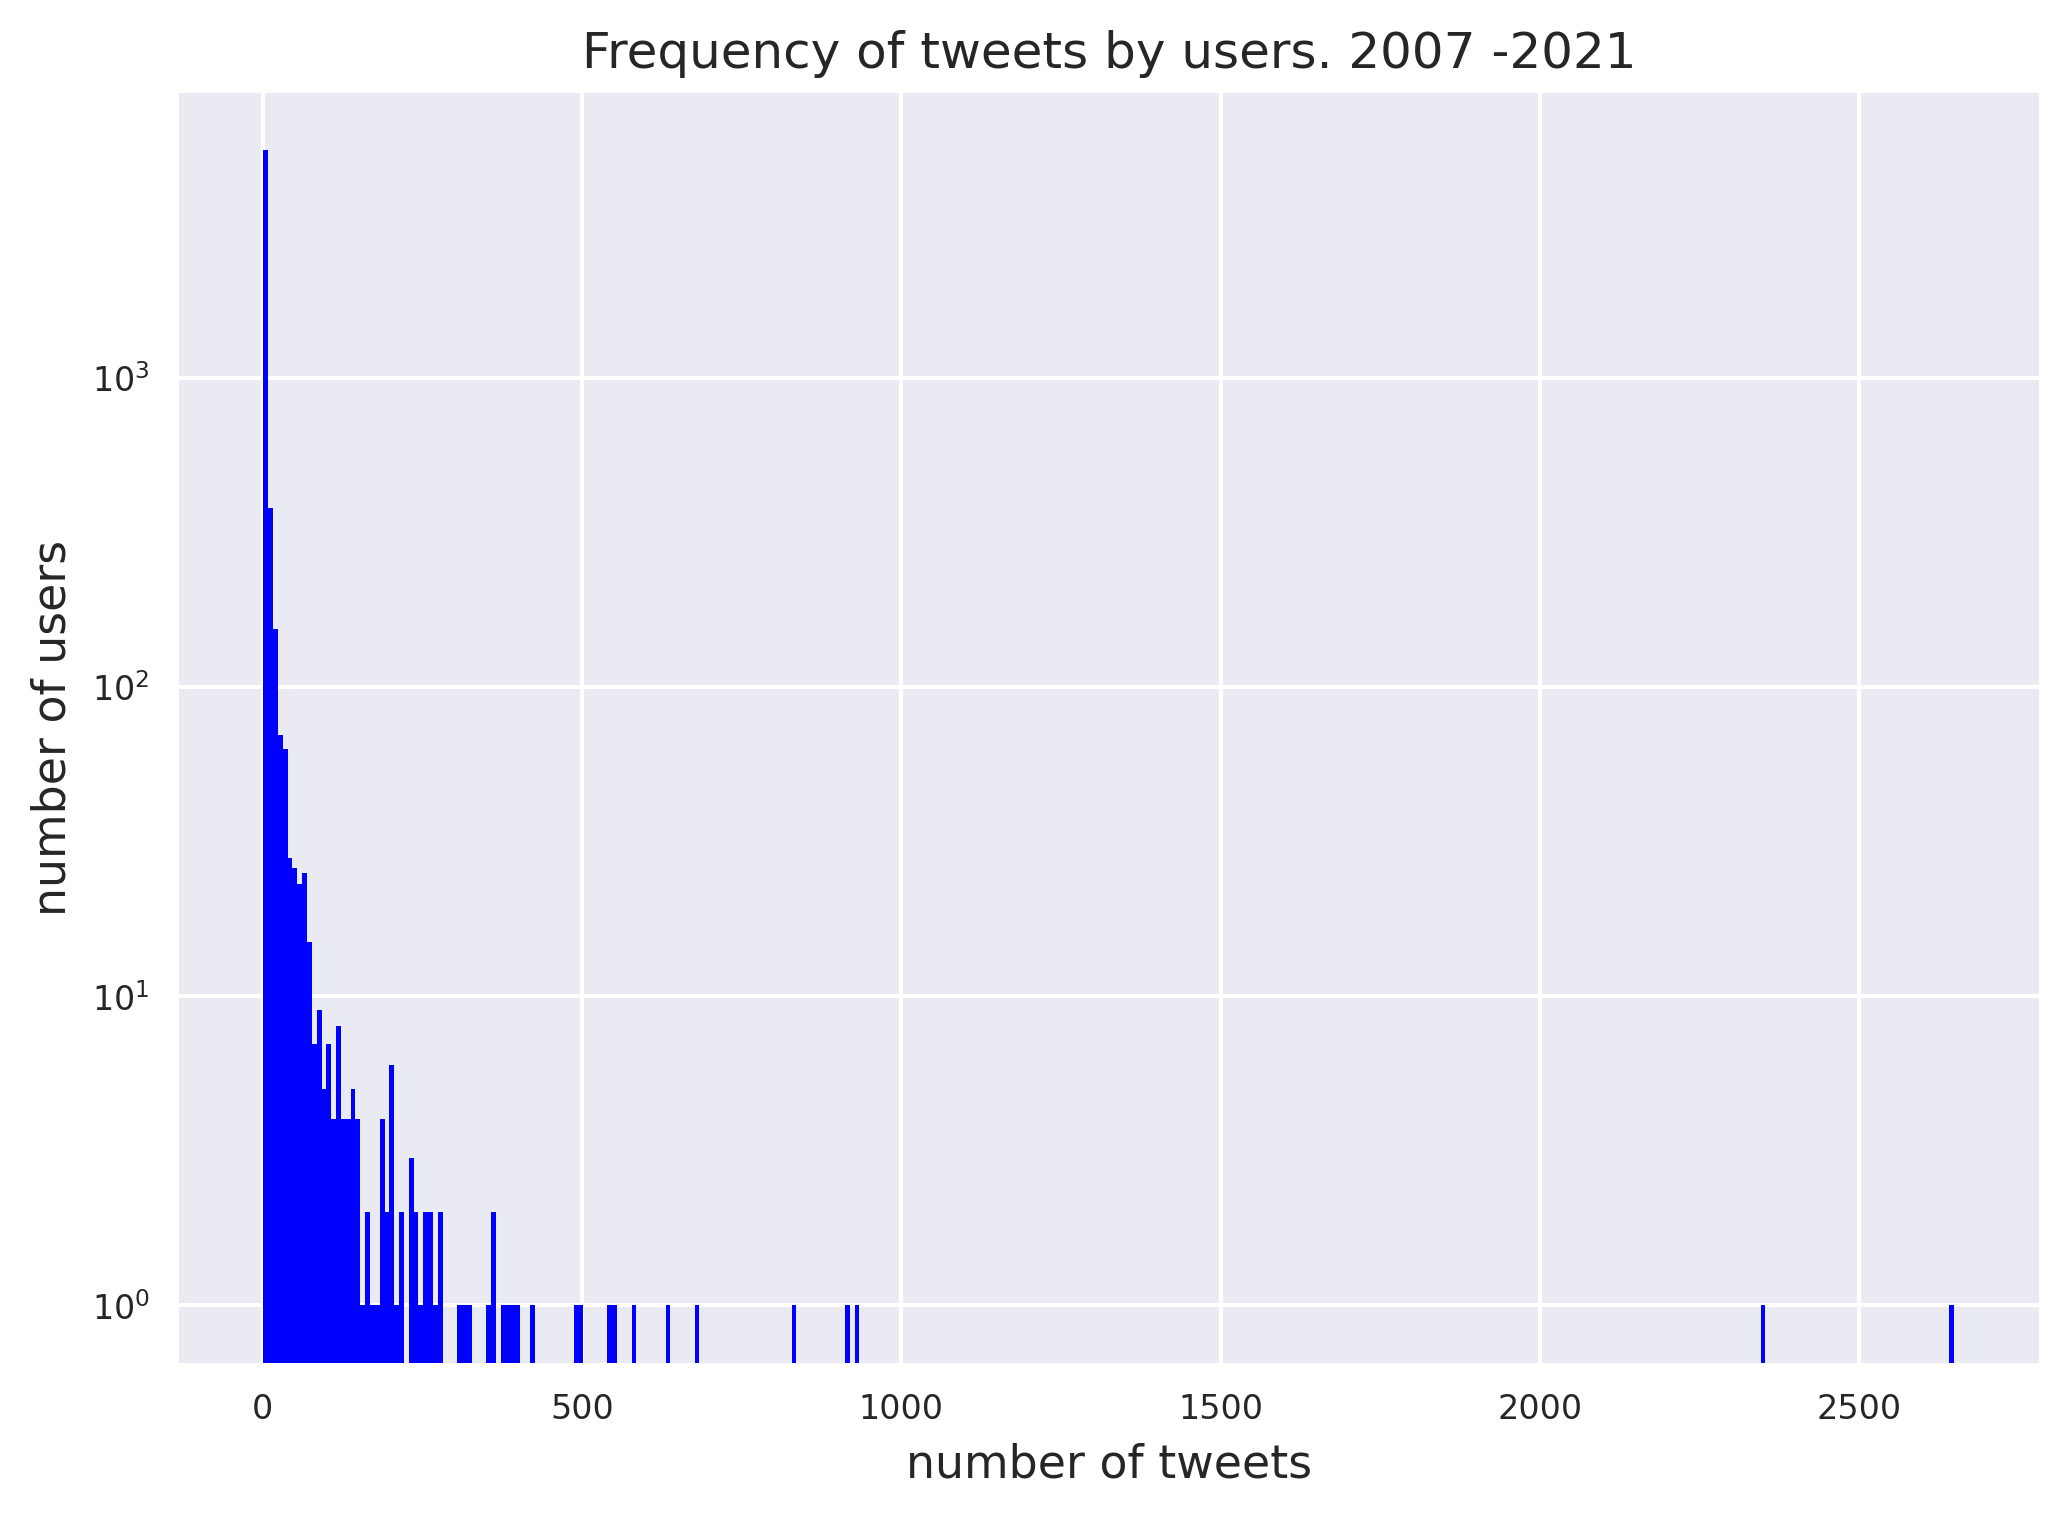
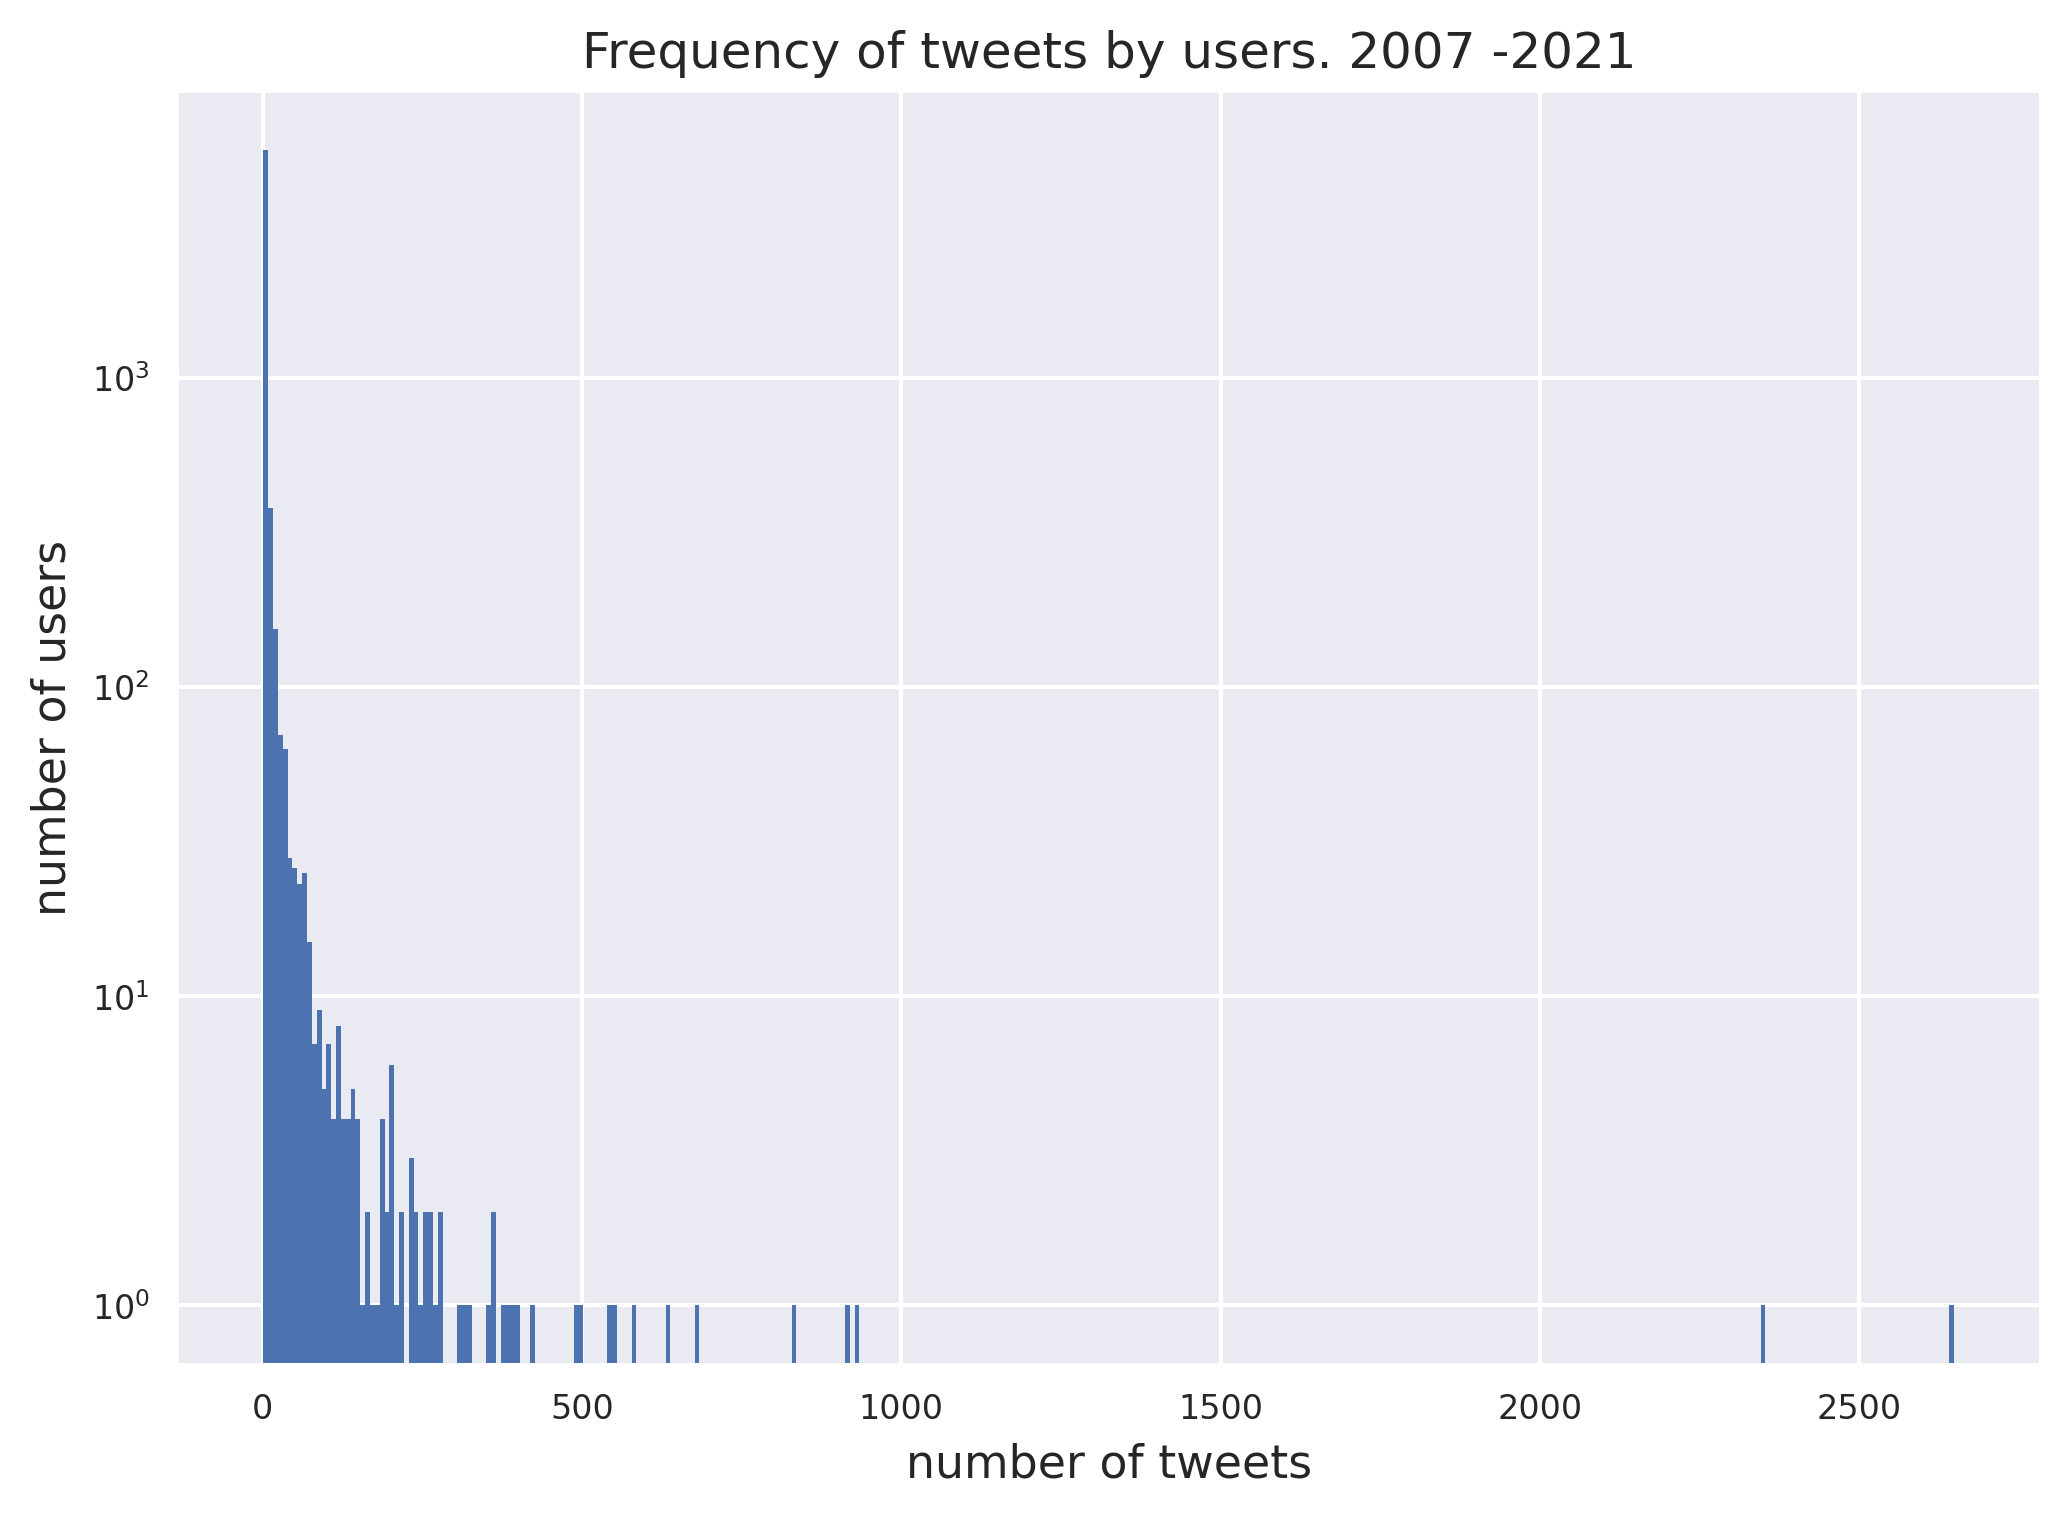
removed color = blue in hist call

Changed region(s): [[0.1238, 0.3408, 0.3404, 0.8985], [0.4023, 0.8675, 0.4333, 0.8985]]

diff --git a/data/anon_identifier.py b/data/anon_identifier.py
@@ -126,7 +126,7 @@ def anonymizer():
                         #box_alignment = (5, 1),
                         arrowprops = dict(arrowstyle='->'))
 
-    ax.hist(tweet_occurances.values() , bins = np.linspace(1, max_number_of_tweets+2, 350), color = 'blue')
+    ax.hist(tweet_occurances.values() , bins = np.linspace(1, max_number_of_tweets+2, 350)) 
     plt.yscale('log')
     plt.xscale('linear')
     plt.ylabel('number of users')
